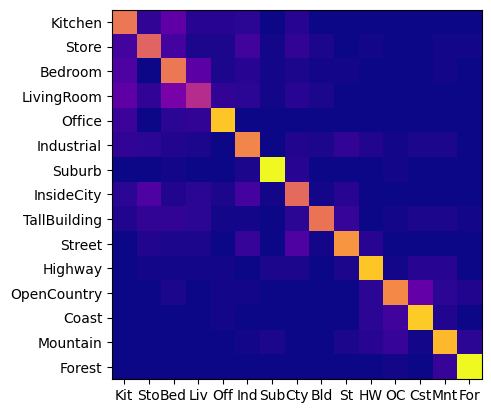
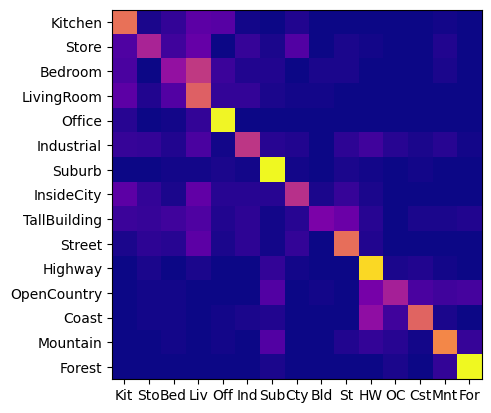
bow + knn

diff --git a/code/results_webpage/index.html b/code/results_webpage/index.html
@@ -36,7 +36,7 @@ h1 {
 <img src="confusion_matrix.png">
 
 <br>
-Accuracy (mean of diagonal of confusion matrix) is 0.692
+Accuracy (mean of diagonal of confusion matrix) is 0.555
 <p>
 
 <table border=0 cellpadding=4 cellspacing=1>
@@ -50,183 +50,183 @@ Accuracy (mean of diagonal of confusion matrix) is 0.692
 </tr>
 <tr>
 <td>Kitchen</td>
-<td>0.610</td>
-<td bgcolor=LightBlue><img src="thumbnails/Kitchen_image_0133.jpg" width=75 height=61></td>
-<td bgcolor=LightBlue><img src="thumbnails/Kitchen_image_0069.jpg" width=75 height=60></td>
-<td bgcolor=LightGreen><img src="thumbnails/Kitchen_image_0024.jpg" width=75 height=100></td>
-<td bgcolor=LightGreen><img src="thumbnails/Kitchen_image_0127.jpg" width=75 height=50></td>
-<td bgcolor=LightCoral><img src="thumbnails/Kitchen_image_0017.jpg" width=75 height=57><br><small>Bedroom</small></td>
-<td bgcolor=LightCoral><img src="thumbnails/Kitchen_image_0055.jpg" width=75 height=56><br><small>LivingRoom</small></td>
-<td bgcolor=#FFBB55><img src="thumbnails/Kitchen_image_0022.jpg" width=75 height=100><br><small>Bedroom</small></td>
-<td bgcolor=#FFBB55><img src="thumbnails/Kitchen_image_0183.jpg" width=75 height=56><br><small>Bedroom</small></td>
+<td>0.580</td>
+<td bgcolor=LightBlue><img src="thumbnails/Kitchen_image_0101.jpg" width=75 height=59></td>
+<td bgcolor=LightBlue><img src="thumbnails/Kitchen_image_0059.jpg" width=75 height=101></td>
+<td bgcolor=LightGreen><img src="thumbnails/Kitchen_image_0173.jpg" width=75 height=57></td>
+<td bgcolor=LightGreen><img src="thumbnails/Kitchen_image_0023.jpg" width=75 height=100></td>
+<td bgcolor=LightCoral><img src="thumbnails/Kitchen_image_0032.jpg" width=75 height=75><br><small>TallBuilding</small></td>
+<td bgcolor=LightCoral><img src="thumbnails/Kitchen_image_0078.jpg" width=75 height=50><br><small>LivingRoom</small></td>
+<td bgcolor=#FFBB55><img src="thumbnails/Kitchen_image_0135.jpg" width=75 height=56><br><small>Bedroom</small></td>
+<td bgcolor=#FFBB55><img src="thumbnails/Kitchen_image_0008.jpg" width=75 height=56><br><small>Office</small></td>
 </tr>
 <tr>
 <td>Store</td>
-<td>0.550</td>
-<td bgcolor=LightBlue><img src="thumbnails/Store_image_0177.jpg" width=75 height=50></td>
-<td bgcolor=LightBlue><img src="thumbnails/Store_image_0059.jpg" width=75 height=56></td>
-<td bgcolor=LightGreen><img src="thumbnails/Store_image_0124.jpg" width=75 height=50></td>
-<td bgcolor=LightGreen><img src="thumbnails/Store_image_0111.jpg" width=75 height=56></td>
-<td bgcolor=LightCoral><img src="thumbnails/Store_image_0084.jpg" width=75 height=75><br><small>InsideCity</small></td>
-<td bgcolor=LightCoral><img src="thumbnails/Store_image_0072.jpg" width=75 height=75><br><small>TallBuilding</small></td>
-<td bgcolor=#FFBB55><img src="thumbnails/Store_image_0143.jpg" width=75 height=50><br><small>Kitchen</small></td>
-<td bgcolor=#FFBB55><img src="thumbnails/Store_image_0117.jpg" width=75 height=80><br><small>TallBuilding</small></td>
+<td>0.340</td>
+<td bgcolor=LightBlue><img src="thumbnails/Store_image_0100.jpg" width=75 height=56></td>
+<td bgcolor=LightBlue><img src="thumbnails/Store_image_0049.jpg" width=75 height=56></td>
+<td bgcolor=LightGreen><img src="thumbnails/Store_image_0078.jpg" width=75 height=53></td>
+<td bgcolor=LightGreen><img src="thumbnails/Store_image_0028.jpg" width=75 height=50></td>
+<td bgcolor=LightCoral><img src="thumbnails/Store_image_0085.jpg" width=75 height=56><br><small>Kitchen</small></td>
+<td bgcolor=LightCoral><img src="thumbnails/Store_image_0127.jpg" width=75 height=75><br><small>InsideCity</small></td>
+<td bgcolor=#FFBB55><img src="thumbnails/Store_image_0121.jpg" width=75 height=100><br><small>Bedroom</small></td>
+<td bgcolor=#FFBB55><img src="thumbnails/Store_image_0113.jpg" width=75 height=56><br><small>LivingRoom</small></td>
 </tr>
 <tr>
 <td>Bedroom</td>
-<td>0.610</td>
-<td bgcolor=LightBlue><img src="thumbnails/Bedroom_image_0065.jpg" width=75 height=100></td>
-<td bgcolor=LightBlue><img src="thumbnails/Bedroom_image_0025.jpg" width=75 height=59></td>
-<td bgcolor=LightGreen><img src="thumbnails/Bedroom_image_0095.jpg" width=75 height=56></td>
-<td bgcolor=LightGreen><img src="thumbnails/Bedroom_image_0033.jpg" width=75 height=56></td>
-<td bgcolor=LightCoral><img src="thumbnails/Bedroom_image_0004.jpg" width=75 height=75><br><small>TallBuilding</small></td>
-<td bgcolor=LightCoral><img src="thumbnails/Bedroom_image_0173.jpg" width=75 height=57><br><small>Kitchen</small></td>
-<td bgcolor=#FFBB55><img src="thumbnails/Bedroom_image_0021.jpg" width=75 height=50><br><small>Kitchen</small></td>
-<td bgcolor=#FFBB55><img src="thumbnails/Bedroom_image_0062.jpg" width=75 height=50><br><small>LivingRoom</small></td>
+<td>0.280</td>
+<td bgcolor=LightBlue><img src="thumbnails/Bedroom_image_0051.jpg" width=75 height=110></td>
+<td bgcolor=LightBlue><img src="thumbnails/Bedroom_image_0174.jpg" width=75 height=56></td>
+<td bgcolor=LightGreen><img src="thumbnails/Bedroom_image_0157.jpg" width=75 height=63></td>
+<td bgcolor=LightGreen><img src="thumbnails/Bedroom_image_0153.jpg" width=75 height=50></td>
+<td bgcolor=LightCoral><img src="thumbnails/Bedroom_image_0121.jpg" width=75 height=100><br><small>Store</small></td>
+<td bgcolor=LightCoral><img src="thumbnails/Bedroom_image_0117.jpg" width=75 height=80><br><small>Store</small></td>
+<td bgcolor=#FFBB55><img src="thumbnails/Bedroom_image_0066.jpg" width=75 height=56><br><small>LivingRoom</small></td>
+<td bgcolor=#FFBB55><img src="thumbnails/Bedroom_image_0175.jpg" width=75 height=56><br><small>LivingRoom</small></td>
 </tr>
 <tr>
 <td>LivingRoom</td>
-<td>0.380</td>
-<td bgcolor=LightBlue><img src="thumbnails/LivingRoom_image_0226.jpg" width=75 height=56></td>
-<td bgcolor=LightBlue><img src="thumbnails/LivingRoom_image_0172.jpg" width=75 height=50></td>
-<td bgcolor=LightGreen><img src="thumbnails/LivingRoom_image_0078.jpg" width=75 height=50></td>
-<td bgcolor=LightGreen><img src="thumbnails/LivingRoom_image_0138.jpg" width=75 height=45></td>
-<td bgcolor=LightCoral><img src="thumbnails/LivingRoom_image_0107.jpg" width=75 height=75><br><small>InsideCity</small></td>
-<td bgcolor=LightCoral><img src="thumbnails/LivingRoom_image_0062.jpg" width=75 height=51><br><small>Office</small></td>
-<td bgcolor=#FFBB55><img src="thumbnails/LivingRoom_image_0023.jpg" width=75 height=56><br><small>Kitchen</small></td>
-<td bgcolor=#FFBB55><img src="thumbnails/LivingRoom_image_0041.jpg" width=75 height=50><br><small>Bedroom</small></td>
+<td>0.530</td>
+<td bgcolor=LightBlue><img src="thumbnails/LivingRoom_image_0208.jpg" width=75 height=81></td>
+<td bgcolor=LightBlue><img src="thumbnails/LivingRoom_image_0229.jpg" width=75 height=56></td>
+<td bgcolor=LightGreen><img src="thumbnails/LivingRoom_image_0135.jpg" width=75 height=49></td>
+<td bgcolor=LightGreen><img src="thumbnails/LivingRoom_image_0010.jpg" width=75 height=56></td>
+<td bgcolor=LightCoral><img src="thumbnails/LivingRoom_image_0143.jpg" width=75 height=50><br><small>Store</small></td>
+<td bgcolor=LightCoral><img src="thumbnails/LivingRoom_image_0130.jpg" width=75 height=43><br><small>Bedroom</small></td>
+<td bgcolor=#FFBB55><img src="thumbnails/LivingRoom_image_0074.jpg" width=75 height=56><br><small>Office</small></td>
+<td bgcolor=#FFBB55><img src="thumbnails/LivingRoom_image_0129.jpg" width=75 height=103><br><small>Store</small></td>
 </tr>
 <tr>
 <td>Office</td>
-<td>0.810</td>
-<td bgcolor=LightBlue><img src="thumbnails/Office_image_0028.jpg" width=75 height=56></td>
-<td bgcolor=LightBlue><img src="thumbnails/Office_image_0152.jpg" width=75 height=52></td>
-<td bgcolor=LightGreen><img src="thumbnails/Office_image_0179.jpg" width=75 height=55></td>
-<td bgcolor=LightGreen><img src="thumbnails/Office_image_0185.jpg" width=75 height=53></td>
-<td bgcolor=LightCoral><img src="thumbnails/Office_image_0121.jpg" width=75 height=75><br><small>OpenCountry</small></td>
-<td bgcolor=LightCoral><img src="thumbnails/Office_image_0036.jpg" width=75 height=100><br><small>Kitchen</small></td>
-<td bgcolor=#FFBB55><img src="thumbnails/Office_image_0146.jpg" width=75 height=47><br><small>Kitchen</small></td>
-<td bgcolor=#FFBB55><img src="thumbnails/Office_image_0023.jpg" width=75 height=63><br><small>Bedroom</small></td>
+<td>0.890</td>
+<td bgcolor=LightBlue><img src="thumbnails/Office_image_0187.jpg" width=75 height=53></td>
+<td bgcolor=LightBlue><img src="thumbnails/Office_image_0051.jpg" width=75 height=51></td>
+<td bgcolor=LightGreen><img src="thumbnails/Office_image_0047.jpg" width=75 height=51></td>
+<td bgcolor=LightGreen><img src="thumbnails/Office_image_0075.jpg" width=75 height=55></td>
+<td bgcolor=LightCoral><img src="thumbnails/Office_image_0043.jpg" width=75 height=100><br><small>Kitchen</small></td>
+<td bgcolor=LightCoral><img src="thumbnails/Office_image_0042.jpg" width=75 height=100><br><small>Kitchen</small></td>
+<td bgcolor=#FFBB55><img src="thumbnails/Office_image_0024.jpg" width=75 height=51><br><small>LivingRoom</small></td>
+<td bgcolor=#FFBB55><img src="thumbnails/Office_image_0062.jpg" width=75 height=51><br><small>Bedroom</small></td>
 </tr>
 <tr>
 <td>Industrial</td>
-<td>0.650</td>
-<td bgcolor=LightBlue><img src="thumbnails/Industrial_image_0004.jpg" width=75 height=48></td>
-<td bgcolor=LightBlue><img src="thumbnails/Industrial_image_0239.jpg" width=75 height=50></td>
-<td bgcolor=LightGreen><img src="thumbnails/Industrial_image_0067.jpg" width=75 height=51></td>
-<td bgcolor=LightGreen><img src="thumbnails/Industrial_image_0013.jpg" width=75 height=54></td>
-<td bgcolor=LightCoral><img src="thumbnails/Industrial_image_0098.jpg" width=75 height=62><br><small>Bedroom</small></td>
-<td bgcolor=LightCoral><img src="thumbnails/Industrial_image_0101.jpg" width=75 height=75><br><small>Street</small></td>
-<td bgcolor=#FFBB55><img src="thumbnails/Industrial_image_0035.jpg" width=75 height=74><br><small>Kitchen</small></td>
-<td bgcolor=#FFBB55><img src="thumbnails/Industrial_image_0148.jpg" width=75 height=56><br><small>Highway</small></td>
+<td>0.400</td>
+<td bgcolor=LightBlue><img src="thumbnails/Industrial_image_0057.jpg" width=75 height=92></td>
+<td bgcolor=LightBlue><img src="thumbnails/Industrial_image_0036.jpg" width=75 height=50></td>
+<td bgcolor=LightGreen><img src="thumbnails/Industrial_image_0149.jpg" width=75 height=55></td>
+<td bgcolor=LightGreen><img src="thumbnails/Industrial_image_0100.jpg" width=75 height=48></td>
+<td bgcolor=LightCoral><img src="thumbnails/Industrial_image_0008.jpg" width=75 height=50><br><small>Suburb</small></td>
+<td bgcolor=LightCoral><img src="thumbnails/Industrial_image_0072.jpg" width=75 height=75><br><small>TallBuilding</small></td>
+<td bgcolor=#FFBB55><img src="thumbnails/Industrial_image_0110.jpg" width=75 height=76><br><small>Kitchen</small></td>
+<td bgcolor=#FFBB55><img src="thumbnails/Industrial_image_0066.jpg" width=75 height=46><br><small>Highway</small></td>
 </tr>
 <tr>
 <td>Suburb</td>
-<td>0.920</td>
-<td bgcolor=LightBlue><img src="thumbnails/Suburb_image_0207.jpg" width=75 height=50></td>
-<td bgcolor=LightBlue><img src="thumbnails/Suburb_image_0099.jpg" width=75 height=50></td>
-<td bgcolor=LightGreen><img src="thumbnails/Suburb_image_0143.jpg" width=75 height=50></td>
-<td bgcolor=LightGreen><img src="thumbnails/Suburb_image_0153.jpg" width=75 height=50></td>
-<td bgcolor=LightCoral><img src="thumbnails/Suburb_image_0009.jpg" width=75 height=75><br><small>Mountain</small></td>
-<td bgcolor=LightCoral><img src="thumbnails/Suburb_image_0126.jpg" width=75 height=75><br><small>InsideCity</small></td>
-<td bgcolor=#FFBB55><img src="thumbnails/Suburb_image_0013.jpg" width=75 height=50><br><small>InsideCity</small></td>
-<td bgcolor=#FFBB55><img src="thumbnails/Suburb_image_0008.jpg" width=75 height=50><br><small>InsideCity</small></td>
+<td>0.900</td>
+<td bgcolor=LightBlue><img src="thumbnails/Suburb_image_0163.jpg" width=75 height=50></td>
+<td bgcolor=LightBlue><img src="thumbnails/Suburb_image_0100.jpg" width=75 height=50></td>
+<td bgcolor=LightGreen><img src="thumbnails/Suburb_image_0139.jpg" width=75 height=50></td>
+<td bgcolor=LightGreen><img src="thumbnails/Suburb_image_0018.jpg" width=75 height=50></td>
+<td bgcolor=LightCoral><img src="thumbnails/Suburb_image_0045.jpg" width=75 height=93><br><small>Industrial</small></td>
+<td bgcolor=LightCoral><img src="thumbnails/Suburb_image_0119.jpg" width=75 height=50><br><small>Bedroom</small></td>
+<td bgcolor=#FFBB55><img src="thumbnails/Suburb_image_0103.jpg" width=75 height=50><br><small>Street</small></td>
+<td bgcolor=#FFBB55><img src="thumbnails/Suburb_image_0108.jpg" width=75 height=50><br><small>Highway</small></td>
 </tr>
 <tr>
 <td>InsideCity</td>
-<td>0.570</td>
-<td bgcolor=LightBlue><img src="thumbnails/InsideCity_image_0279.jpg" width=75 height=75></td>
-<td bgcolor=LightBlue><img src="thumbnails/InsideCity_image_0258.jpg" width=75 height=75></td>
-<td bgcolor=LightGreen><img src="thumbnails/InsideCity_image_0094.jpg" width=75 height=75></td>
-<td bgcolor=LightGreen><img src="thumbnails/InsideCity_image_0104.jpg" width=75 height=75></td>
-<td bgcolor=LightCoral><img src="thumbnails/InsideCity_image_0003.jpg" width=75 height=50><br><small>Suburb</small></td>
-<td bgcolor=LightCoral><img src="thumbnails/InsideCity_image_0035.jpg" width=75 height=75><br><small>TallBuilding</small></td>
-<td bgcolor=#FFBB55><img src="thumbnails/InsideCity_image_0038.jpg" width=75 height=75><br><small>Store</small></td>
-<td bgcolor=#FFBB55><img src="thumbnails/InsideCity_image_0007.jpg" width=75 height=75><br><small>Kitchen</small></td>
+<td>0.380</td>
+<td bgcolor=LightBlue><img src="thumbnails/InsideCity_image_0172.jpg" width=75 height=75></td>
+<td bgcolor=LightBlue><img src="thumbnails/InsideCity_image_0143.jpg" width=75 height=75></td>
+<td bgcolor=LightGreen><img src="thumbnails/InsideCity_image_0131.jpg" width=75 height=75></td>
+<td bgcolor=LightGreen><img src="thumbnails/InsideCity_image_0123.jpg" width=75 height=75></td>
+<td bgcolor=LightCoral><img src="thumbnails/InsideCity_image_0063.jpg" width=75 height=100><br><small>Store</small></td>
+<td bgcolor=LightCoral><img src="thumbnails/InsideCity_image_0060.jpg" width=75 height=100><br><small>Store</small></td>
+<td bgcolor=#FFBB55><img src="thumbnails/InsideCity_image_0056.jpg" width=75 height=75><br><small>LivingRoom</small></td>
+<td bgcolor=#FFBB55><img src="thumbnails/InsideCity_image_0023.jpg" width=75 height=75><br><small>Street</small></td>
 </tr>
 <tr>
 <td>TallBuilding</td>
-<td>0.600</td>
-<td bgcolor=LightBlue><img src="thumbnails/TallBuilding_image_0010.jpg" width=75 height=75></td>
-<td bgcolor=LightBlue><img src="thumbnails/TallBuilding_image_0145.jpg" width=75 height=75></td>
-<td bgcolor=LightGreen><img src="thumbnails/TallBuilding_image_0025.jpg" width=75 height=75></td>
-<td bgcolor=LightGreen><img src="thumbnails/TallBuilding_image_0055.jpg" width=75 height=75></td>
-<td bgcolor=LightCoral><img src="thumbnails/TallBuilding_image_0069.jpg" width=75 height=75><br><small>InsideCity</small></td>
-<td bgcolor=LightCoral><img src="thumbnails/TallBuilding_image_0143.jpg" width=75 height=56><br><small>LivingRoom</small></td>
-<td bgcolor=#FFBB55><img src="thumbnails/TallBuilding_image_0121.jpg" width=75 height=75><br><small>Kitchen</small></td>
-<td bgcolor=#FFBB55><img src="thumbnails/TallBuilding_image_0062.jpg" width=75 height=75><br><small>InsideCity</small></td>
+<td>0.220</td>
+<td bgcolor=LightBlue><img src="thumbnails/TallBuilding_image_0089.jpg" width=75 height=75></td>
+<td bgcolor=LightBlue><img src="thumbnails/TallBuilding_image_0244.jpg" width=75 height=75></td>
+<td bgcolor=LightGreen><img src="thumbnails/TallBuilding_image_0002.jpg" width=75 height=75></td>
+<td bgcolor=LightGreen><img src="thumbnails/TallBuilding_image_0123.jpg" width=75 height=75></td>
+<td bgcolor=LightCoral><img src="thumbnails/TallBuilding_image_0043.jpg" width=75 height=56><br><small>LivingRoom</small></td>
+<td bgcolor=LightCoral><img src="thumbnails/TallBuilding_image_0086.jpg" width=75 height=56><br><small>Bedroom</small></td>
+<td bgcolor=#FFBB55><img src="thumbnails/TallBuilding_image_0057.jpg" width=75 height=75><br><small>LivingRoom</small></td>
+<td bgcolor=#FFBB55><img src="thumbnails/TallBuilding_image_0127.jpg" width=75 height=75><br><small>LivingRoom</small></td>
 </tr>
 <tr>
 <td>Street</td>
-<td>0.690</td>
-<td bgcolor=LightBlue><img src="thumbnails/Street_image_0160.jpg" width=75 height=75></td>
-<td bgcolor=LightBlue><img src="thumbnails/Street_image_0255.jpg" width=75 height=75></td>
-<td bgcolor=LightGreen><img src="thumbnails/Street_image_0126.jpg" width=75 height=75></td>
-<td bgcolor=LightGreen><img src="thumbnails/Street_image_0086.jpg" width=75 height=75></td>
-<td bgcolor=LightCoral><img src="thumbnails/Street_image_0131.jpg" width=75 height=75><br><small>TallBuilding</small></td>
-<td bgcolor=LightCoral><img src="thumbnails/Street_image_0047.jpg" width=75 height=75><br><small>Mountain</small></td>
-<td bgcolor=#FFBB55><img src="thumbnails/Street_image_0090.jpg" width=75 height=75><br><small>Highway</small></td>
-<td bgcolor=#FFBB55><img src="thumbnails/Street_image_0054.jpg" width=75 height=75><br><small>Industrial</small></td>
+<td>0.570</td>
+<td bgcolor=LightBlue><img src="thumbnails/Street_image_0148.jpg" width=75 height=75></td>
+<td bgcolor=LightBlue><img src="thumbnails/Street_image_0075.jpg" width=75 height=75></td>
+<td bgcolor=LightGreen><img src="thumbnails/Street_image_0094.jpg" width=75 height=75></td>
+<td bgcolor=LightGreen><img src="thumbnails/Street_image_0125.jpg" width=75 height=75></td>
+<td bgcolor=LightCoral><img src="thumbnails/Street_image_0009.jpg" width=75 height=50><br><small>Suburb</small></td>
+<td bgcolor=LightCoral><img src="thumbnails/Street_image_0080.jpg" width=75 height=75><br><small>Mountain</small></td>
+<td bgcolor=#FFBB55><img src="thumbnails/Street_image_0145.jpg" width=75 height=75><br><small>Store</small></td>
+<td bgcolor=#FFBB55><img src="thumbnails/Street_image_0032.jpg" width=75 height=75><br><small>InsideCity</small></td>
 </tr>
 <tr>
 <td>Highway</td>
-<td>0.810</td>
-<td bgcolor=LightBlue><img src="thumbnails/Highway_image_0132.jpg" width=75 height=75></td>
-<td bgcolor=LightBlue><img src="thumbnails/Highway_image_0199.jpg" width=75 height=75></td>
+<td>0.830</td>
+<td bgcolor=LightBlue><img src="thumbnails/Highway_image_0012.jpg" width=75 height=75></td>
+<td bgcolor=LightBlue><img src="thumbnails/Highway_image_0227.jpg" width=75 height=75></td>
 <td bgcolor=LightGreen><img src="thumbnails/Highway_image_0090.jpg" width=75 height=75></td>
-<td bgcolor=LightGreen><img src="thumbnails/Highway_image_0121.jpg" width=75 height=75></td>
-<td bgcolor=LightCoral><img src="thumbnails/Highway_image_0148.jpg" width=75 height=56><br><small>Industrial</small></td>
-<td bgcolor=LightCoral><img src="thumbnails/Highway_image_0021.jpg" width=75 height=75><br><small>Street</small></td>
-<td bgcolor=#FFBB55><img src="thumbnails/Highway_image_0006.jpg" width=75 height=75><br><small>Coast</small></td>
-<td bgcolor=#FFBB55><img src="thumbnails/Highway_image_0014.jpg" width=75 height=75><br><small>Store</small></td>
+<td bgcolor=LightGreen><img src="thumbnails/Highway_image_0157.jpg" width=75 height=75></td>
+<td bgcolor=LightCoral><img src="thumbnails/Highway_image_0081.jpg" width=75 height=75><br><small>Coast</small></td>
+<td bgcolor=LightCoral><img src="thumbnails/Highway_image_0009.jpg" width=75 height=75><br><small>Coast</small></td>
+<td bgcolor=#FFBB55><img src="thumbnails/Highway_image_0015.jpg" width=75 height=75><br><small>LivingRoom</small></td>
+<td bgcolor=#FFBB55><img src="thumbnails/Highway_image_0029.jpg" width=75 height=75><br><small>InsideCity</small></td>
 </tr>
 <tr>
 <td>OpenCountry</td>
-<td>0.660</td>
-<td bgcolor=LightBlue><img src="thumbnails/OpenCountry_image_0096.jpg" width=75 height=75></td>
-<td bgcolor=LightBlue><img src="thumbnails/OpenCountry_image_0235.jpg" width=75 height=75></td>
-<td bgcolor=LightGreen><img src="thumbnails/OpenCountry_image_0123.jpg" width=75 height=75></td>
-<td bgcolor=LightGreen><img src="thumbnails/OpenCountry_image_0054.jpg" width=75 height=75></td>
-<td bgcolor=LightCoral><img src="thumbnails/OpenCountry_image_0024.jpg" width=75 height=75><br><small>Coast</small></td>
-<td bgcolor=LightCoral><img src="thumbnails/OpenCountry_image_0030.jpg" width=75 height=75><br><small>TallBuilding</small></td>
-<td bgcolor=#FFBB55><img src="thumbnails/OpenCountry_image_0118.jpg" width=75 height=75><br><small>Coast</small></td>
-<td bgcolor=#FFBB55><img src="thumbnails/OpenCountry_image_0079.jpg" width=75 height=75><br><small>Mountain</small></td>
+<td>0.330</td>
+<td bgcolor=LightBlue><img src="thumbnails/OpenCountry_image_0056.jpg" width=75 height=75></td>
+<td bgcolor=LightBlue><img src="thumbnails/OpenCountry_image_0178.jpg" width=75 height=75></td>
+<td bgcolor=LightGreen><img src="thumbnails/OpenCountry_image_0016.jpg" width=75 height=75></td>
+<td bgcolor=LightGreen><img src="thumbnails/OpenCountry_image_0063.jpg" width=75 height=75></td>
+<td bgcolor=LightCoral><img src="thumbnails/OpenCountry_image_0034.jpg" width=75 height=75><br><small>Highway</small></td>
+<td bgcolor=LightCoral><img src="thumbnails/OpenCountry_image_0133.jpg" width=75 height=75><br><small>Highway</small></td>
+<td bgcolor=#FFBB55><img src="thumbnails/OpenCountry_image_0082.jpg" width=75 height=75><br><small>Highway</small></td>
+<td bgcolor=#FFBB55><img src="thumbnails/OpenCountry_image_0031.jpg" width=75 height=75><br><small>Highway</small></td>
 </tr>
 <tr>
 <td>Coast</td>
-<td>0.820</td>
-<td bgcolor=LightBlue><img src="thumbnails/Coast_image_0209.jpg" width=75 height=75></td>
-<td bgcolor=LightBlue><img src="thumbnails/Coast_image_0143.jpg" width=75 height=75></td>
-<td bgcolor=LightGreen><img src="thumbnails/Coast_image_0073.jpg" width=75 height=75></td>
-<td bgcolor=LightGreen><img src="thumbnails/Coast_image_0085.jpg" width=75 height=75></td>
-<td bgcolor=LightCoral><img src="thumbnails/Coast_image_0030.jpg" width=75 height=75><br><small>OpenCountry</small></td>
-<td bgcolor=LightCoral><img src="thumbnails/Coast_image_0093.jpg" width=75 height=75><br><small>OpenCountry</small></td>
-<td bgcolor=#FFBB55><img src="thumbnails/Coast_image_0007.jpg" width=75 height=75><br><small>Mountain</small></td>
-<td bgcolor=#FFBB55><img src="thumbnails/Coast_image_0014.jpg" width=75 height=75><br><small>Highway</small></td>
+<td>0.540</td>
+<td bgcolor=LightBlue><img src="thumbnails/Coast_image_0239.jpg" width=75 height=75></td>
+<td bgcolor=LightBlue><img src="thumbnails/Coast_image_0199.jpg" width=75 height=75></td>
+<td bgcolor=LightGreen><img src="thumbnails/Coast_image_0074.jpg" width=75 height=75></td>
+<td bgcolor=LightGreen><img src="thumbnails/Coast_image_0094.jpg" width=75 height=75></td>
+<td bgcolor=LightCoral><img src="thumbnails/Coast_image_0119.jpg" width=75 height=75><br><small>OpenCountry</small></td>
+<td bgcolor=LightCoral><img src="thumbnails/Coast_image_0140.jpg" width=75 height=75><br><small>Highway</small></td>
+<td bgcolor=#FFBB55><img src="thumbnails/Coast_image_0042.jpg" width=75 height=75><br><small>Highway</small></td>
+<td bgcolor=#FFBB55><img src="thumbnails/Coast_image_0002.jpg" width=75 height=75><br><small>Highway</small></td>
 </tr>
 <tr>
 <td>Mountain</td>
-<td>0.780</td>
-<td bgcolor=LightBlue><img src="thumbnails/Mountain_image_0274.jpg" width=75 height=75></td>
-<td bgcolor=LightBlue><img src="thumbnails/Mountain_image_0116.jpg" width=75 height=75></td>
-<td bgcolor=LightGreen><img src="thumbnails/Mountain_image_0083.jpg" width=75 height=75></td>
-<td bgcolor=LightGreen><img src="thumbnails/Mountain_image_0081.jpg" width=75 height=75></td>
-<td bgcolor=LightCoral><img src="thumbnails/Mountain_image_0117.jpg" width=75 height=75><br><small>Forest</small></td>
-<td bgcolor=LightCoral><img src="thumbnails/Mountain_image_0124.jpg" width=75 height=75><br><small>Forest</small></td>
-<td bgcolor=#FFBB55><img src="thumbnails/Mountain_image_0003.jpg" width=75 height=75><br><small>Industrial</small></td>
-<td bgcolor=#FFBB55><img src="thumbnails/Mountain_image_0101.jpg" width=75 height=75><br><small>Forest</small></td>
+<td>0.640</td>
+<td bgcolor=LightBlue><img src="thumbnails/Mountain_image_0044.jpg" width=75 height=75></td>
+<td bgcolor=LightBlue><img src="thumbnails/Mountain_image_0228.jpg" width=75 height=75></td>
+<td bgcolor=LightGreen><img src="thumbnails/Mountain_image_0105.jpg" width=75 height=75></td>
+<td bgcolor=LightGreen><img src="thumbnails/Mountain_image_0055.jpg" width=75 height=75></td>
+<td bgcolor=LightCoral><img src="thumbnails/Mountain_image_0049.jpg" width=75 height=57><br><small>Industrial</small></td>
+<td bgcolor=LightCoral><img src="thumbnails/Mountain_image_0013.jpg" width=75 height=54><br><small>Industrial</small></td>
+<td bgcolor=#FFBB55><img src="thumbnails/Mountain_image_0043.jpg" width=75 height=75><br><small>Suburb</small></td>
+<td bgcolor=#FFBB55><img src="thumbnails/Mountain_image_0081.jpg" width=75 height=75><br><small>Suburb</small></td>
 </tr>
 <tr>
 <td>Forest</td>
-<td>0.920</td>
-<td bgcolor=LightBlue><img src="thumbnails/Forest_image_0277.jpg" width=75 height=75></td>
-<td bgcolor=LightBlue><img src="thumbnails/Forest_image_0321.jpg" width=75 height=75></td>
-<td bgcolor=LightGreen><img src="thumbnails/Forest_image_0085.jpg" width=75 height=75></td>
-<td bgcolor=LightGreen><img src="thumbnails/Forest_image_0018.jpg" width=75 height=75></td>
+<td>0.900</td>
+<td bgcolor=LightBlue><img src="thumbnails/Forest_image_0031.jpg" width=75 height=75></td>
+<td bgcolor=LightBlue><img src="thumbnails/Forest_image_0267.jpg" width=75 height=75></td>
+<td bgcolor=LightGreen><img src="thumbnails/Forest_image_0041.jpg" width=75 height=75></td>
+<td bgcolor=LightGreen><img src="thumbnails/Forest_image_0142.jpg" width=75 height=75></td>
+<td bgcolor=LightCoral><img src="thumbnails/Forest_image_0005.jpg" width=75 height=75><br><small>OpenCountry</small></td>
 <td bgcolor=LightCoral><img src="thumbnails/Forest_image_0069.jpg" width=75 height=75><br><small>Mountain</small></td>
-<td bgcolor=LightCoral><img src="thumbnails/Forest_image_0010.jpg" width=75 height=75><br><small>Mountain</small></td>
-<td bgcolor=#FFBB55><img src="thumbnails/Forest_image_0021.jpg" width=75 height=75><br><small>Mountain</small></td>
-<td bgcolor=#FFBB55><img src="thumbnails/Forest_image_0109.jpg" width=75 height=75><br><small>Mountain</small></td>
+<td bgcolor=#FFBB55><img src="thumbnails/Forest_image_0124.jpg" width=75 height=75><br><small>Mountain</small></td>
+<td bgcolor=#FFBB55><img src="thumbnails/Forest_image_0110.jpg" width=75 height=75><br><small>Mountain</small></td>
 </tr>
 <tr>
 <th>Category name</th>
